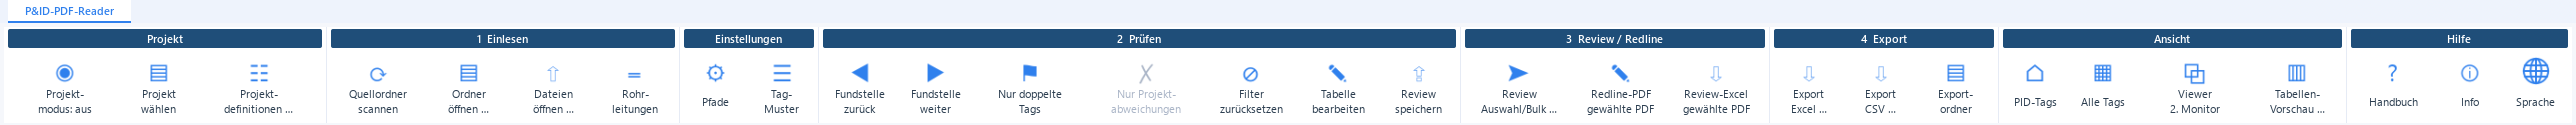
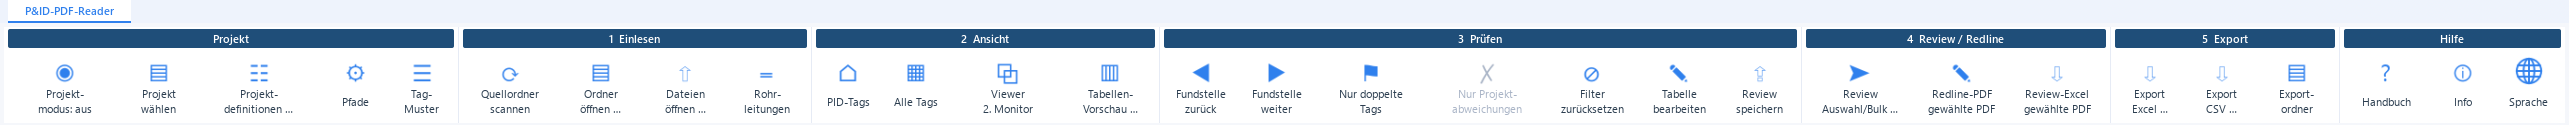
P3D PDF Reader 1.0.14: Menüband neu geordnet, Projektmodus-Symbol grün
- Einstellungen (Pfade, Tag-Muster) in die Gruppe Projekt verschoben
- Ansicht vor Prüfen, Gruppen neu nummeriert (1 Einlesen, 2 Ansicht,
  3 Prüfen, 4 Review / Redline, 5 Export), Übersetzungen EN/FR ergänzt
- Projektmodus an = grünes Symbol (Kit-Farbe ok)
- Handbuch, Hilfebilder, README und Tests angepasst

diff --git a/src/p3d_pdfreader/assets/help/handbuch.html b/src/p3d_pdfreader/assets/help/handbuch.html
@@ -87,15 +87,16 @@ details > div{padding:0 12px 8px}
 <p class="note">Klick auf einen Schritt springt zum Knopf im Menüband.</p>
 <div class="steps">
   <div class="step" data-go="scan"><b>1 · Einlesen</b><img src="img/scan.png" alt="">Quellordner scannen (<kbd>F5</kbd>) oder Ordner/Dateien öffnen.</div>
-  <div class="step" data-go="next"><b>2 · Prüfen</b><img src="img/next.png" alt="">Tag wählen, Fundstellen mit <kbd>F3</kbd> durchgehen, „Nur doppelte Tags“.</div>
-  <div class="step" data-go="redline"><b>3 · Review / Redline</b><img src="img/redline.png" alt="">Redline-PDF und Review-Excel für die gewählte PDF oder im Bulk.</div>
-  <div class="step" data-go="xlsx"><b>4 · Export</b><img src="img/xlsx.png" alt="">Alle Dateien und Tags als Excel oder CSV.</div>
+  <div class="step" data-go="sheet_tags"><b>2 · Ansicht</b><img src="img/sheet_tags.png" alt="">Blatt „PID-Tags“ oder „Alle Tags“, Viewer auf 2. Monitor.</div>
+  <div class="step" data-go="next"><b>3 · Prüfen</b><img src="img/next.png" alt="">Tag wählen, Fundstellen mit <kbd>F3</kbd> durchgehen, „Nur doppelte Tags“.</div>
+  <div class="step" data-go="redline"><b>4 · Review / Redline</b><img src="img/redline.png" alt="">Redline-PDF und Review-Excel für die gewählte PDF oder im Bulk.</div>
+  <div class="step" data-go="xlsx"><b>5 · Export</b><img src="img/xlsx.png" alt="">Alle Dateien und Tags als Excel oder CSV.</div>
 </div>
 </section>
 
 <section id="ribbon" data-title="Menüband">
 <h2>Menüband</h2>
-<p>Jede Gruppe hat eine dunkelblaue Überschrift. <b>Klick auf einen Knopf</b> zeigt darunter, was er tut. Die Einstellungen stehen direkt nach „1 Einlesen“.</p>
+<p>Jede Gruppe hat eine dunkelblaue Überschrift. <b>Klick auf einen Knopf</b> zeigt darunter, was er tut. Die Einstellungen (Pfade, Tag-Muster) stehen in der Gruppe „Projekt“. Ist der Projektmodus an, ist sein Symbol grün.</p>
 <div class="ribbon" id="rib"></div>
 <div class="detail" id="det"><div class="note">Knopf im Menüband anklicken …</div></div>
 <h3>Leisten über den Bereichen</h3>
@@ -211,7 +212,7 @@ details > div{padding:0 12px 8px}
 </tbody></table></div></details>
 <details><summary>Wo liegen meine Daten?</summary><div>
 <p>Datenordner: <code>%P3D_PDFREADER_HOME%</code>, sonst <code>&lt;Tool&gt;\data</code>, als EXE <code>%LOCALAPPDATA%\P3D_PDFREADER</code>. Darin <code>config\paths.json</code> (Quell-/Exportordner), <code>config\state.json</code>, <code>config\table_views.json</code>, <code>config\tag_patterns.json</code>, <code>logs\</code>, <code>exports\</code>.</p>
-<p>Einstellungen › <b>Pfade</b>: Quellordner hinzufügen/entfernen, Exportordner wählen. Einstellungen › <b>Tag-Muster</b>: Regex und Ausschlussliste anpassen.</p></div></details>
+<p>Projekt › <b>Pfade</b>: Quellordner hinzufügen/entfernen, Exportordner wählen. Projekt › <b>Tag-Muster</b>: Regex und Ausschlussliste anpassen.</p></div></details>
 <details><summary>Warum erscheint Equipment doppelt?</summary><div>
 <p>Equipment steht oft zusätzlich in der Equipment-Tabelle am Blattfuß und zählt dann als doppelter Tag – das kann gewollt sein.</p></div></details>
 </section>
@@ -220,18 +221,22 @@ details > div{padding:0 12px 8px}
 <script>
 const R = [
  ["Projekt", [
-  ["project_mode","Projekt-\nmodus","Schaltet die Prüfung gegen Projektdefinitionen ein oder aus. Aus = Standardmodus ohne Projektregeln. Beim Umschalten werden geladene PDFs neu eingelesen."],
+  ["project_mode","Projekt-\nmodus","Schaltet die Prüfung gegen Projektdefinitionen ein oder aus. An = Symbol grün. Aus = Standardmodus ohne Projektregeln. Beim Umschalten werden geladene PDFs neu eingelesen."],
   ["project_pick","Projekt\nwählen","Projekt anlegen, öffnen oder aus P3D Tag Compliance übernehmen (pidtag_project.db wird nur gelesen)."],
-  ["project_defs","Projekt-\ndefinitionen …","Codelisten, Listen, Tag-Strukturen, PDF-Prüfregeln bearbeiten; Excel-Export/-Import; „Tag testen“."]]],
+  ["project_defs","Projekt-\ndefinitionen …","Codelisten, Listen, Tag-Strukturen, PDF-Prüfregeln bearbeiten; Excel-Export/-Import; „Tag testen“."],
+  ["paths","Pfade","Quellordner und Exportordner verwalten, Speicherorte öffnen."],
+  ["patterns","Tag-\nMuster","Öffnet tag_patterns.json: Regex je Tag-Typ und Ausschlussliste für Kürzel."]]],
  ["1  Einlesen", [
   ["scan","Quellordner\nscannen","Liest alle PDFs der Quellordner (inkl. Unterordner) ein. Taste F5."],
   ["folder","Ordner\nöffnen …","Einen beliebigen Ordner mit PDF-Plots einlesen."],
   ["files","Dateien\nöffnen …","Einzelne PDF-Dateien wählen und einlesen."],
   ["pipes","Rohr-\nleitungen","Menü: Rohrleitungsnummern (z. B. TFHR_SS01_001_1\") mit in die Tag-Liste übernehmen. Wird gemerkt; Umschalten liest neu ein."]]],
- ["Einstellungen", [
-  ["paths","Pfade","Quellordner und Exportordner verwalten, Speicherorte öffnen."],
-  ["patterns","Tag-\nMuster","Öffnet tag_patterns.json: Regex je Tag-Typ und Ausschlussliste für Kürzel."]]],
- ["2  Prüfen", [
+ ["2  Ansicht", [
+  ["sheet_tags","PID-Tags","Wechselt zum Blatt „PID-Tags“."],
+  ["sheet_all","Alle Tags","Öffnet das Blatt mit den Tags aller PDFs."],
+  ["monitor","Viewer\n2. Monitor","PDF-Viewer in eigenem Fenster (z. B. auf dem zweiten Bildschirm). Wird gemerkt."],
+  ["preview","Tabellen-\nVorschau …","Vorschau der aktuellen Tabelle."]]],
+ ["3  Prüfen", [
   ["prev","Fundstelle\nzurück","Vorherige Fundstelle des gewählten Tags. Umschalt+F3."],
   ["next","Fundstelle\nweiter","Nächste Fundstelle des gewählten Tags; nach der letzten die Übersicht. F3."],
   ["dups","Nur doppelte\nTags","Zeigt nur Tags, die mehrfach in der PDF stehen."],
@@ -239,19 +244,14 @@ const R = [
   ["filter_reset","Filter\nzurücksetzen","Blattfilter, Spaltenfilter, Wertauswahl und „Nur …“-Schalter in allen Tabellen zurücksetzen."],
   ["edit","Tabelle\nbearbeiten","Review-Spalten der Tag-Tabelle bearbeiten (Review, Änderung, Neuer Wert, Bemerkung …)."],
   ["save","Review\nspeichern","Review-Einträge sichern. Strg+S."]]],
- ["3  Review / Redline", [
+ ["4  Review / Redline", [
   ["review","Review\nAuswahl/Bulk …","Redline-PDF, Review-Excel je PDF und gesamt für markierte oder alle PDFs erzeugen."],
   ["redline","Redline-PDF\ngewählte PDF","Kopie der gewählten PDF mit Rahmen, Pos.-Nr. und Kommentar je Fundstelle (Tabellenfilter gilt)."],
   ["review_xlsx","Review-Excel\ngewählte PDF","Excel mit einer Zeile je Fundstelle, Prüfstatus-Auswahlliste und Bemerkung."]]],
- ["4  Export", [
+ ["5  Export", [
   ["xlsx","Export\nExcel …","Dateien und Tags aller PDFs als Excel."],
   ["csv","Export\nCSV …","Tags als CSV (;) plus _Dateien.csv."],
   ["open_exports","Export-\nordner","Öffnet den Exportordner im Explorer."]]],
- ["Ansicht", [
-  ["sheet_tags","PID-Tags","Wechselt zum Blatt „PID-Tags“."],
-  ["sheet_all","Alle Tags","Öffnet das Blatt mit den Tags aller PDFs."],
-  ["monitor","Viewer\n2. Monitor","PDF-Viewer in eigenem Fenster (z. B. auf dem zweiten Bildschirm). Wird gemerkt."],
-  ["preview","Tabellen-\nVorschau …","Vorschau der aktuellen Tabelle."]]],
  ["Hilfe", [
   ["help","Handbuch","Öffnet dieses Handbuch."],
   ["about","Info","Version und Programminformationen."],

diff --git a/src/p3d_pdfreader/gui/main_window.py b/src/p3d_pdfreader/gui/main_window.py
@@ -20,7 +20,7 @@ from main_gui_kit.buttons import ButtonKind, action_button
 from main_gui_kit.preview import DataPreviewDialog
 from main_gui_kit.tables import (MultiColumnFilterProxy, TableAdminBar, TableDataModel, configure_table_view,
                                  table_zoom_slider)
-from main_gui_kit.theme import ThemeManager
+from main_gui_kit.theme import LIGHT, ThemeManager
 
 from .. import i18n, paths
 from ..constants import APP_NAME
@@ -28,7 +28,7 @@ from ..core import export, redline, review
 from ..core.extract import PdfResult
 from ..core.project_defs import CHECK_HEADERS, ProjectDB, is_fault_status
 from ..core.review_store import CHANGE_VALUES, EDIT_FIELDS, FIELDS, REVIEW_VALUES, ReviewStore, status_hits
-from . import appearance, last_paths, table_views
+from . import appearance, icons, last_paths, table_views
 from .design import NOTE_QSS
 from .paths_dialog import PathsDialog, open_in_explorer
 from . import project_dialog
@@ -585,8 +585,9 @@ class MainWindow(QMainWindow):
 
     # --- Menueband -----------------------------------------------------------------------------------------------
     def _build_ribbon(self) -> Ribbon:
-        """Menueband nach Arbeitsschritten: 1 Einlesen -> 2 Pruefen -> 3 Review/Redline -> 4 Export; dann Ansicht,
-        Hilfe. Einstellungen stehen direkt nach 1 Einlesen; jede Gruppe hat eine dunkelblaue Ueberschrift. Jede Funktion als Symbol (Glyphen-Ergaenzung in ``toolstrip``)."""
+        """Menueband: Projekt (mit den Einstellungen Pfade/Tag-Muster), dann die Arbeitsschritte 1 Einlesen -> 2 Ansicht
+        -> 3 Pruefen -> 4 Review/Redline -> 5 Export, zuletzt Hilfe (Nutzervorgabe 2026-11-21). Jede Gruppe hat eine
+        dunkelblaue Ueberschrift. Jede Funktion als Symbol (Glyphen-Ergaenzung in ``toolstrip``)."""
         r = Ribbon("P&ID-PDF-Reader")
         # Projekt: Modus ein/aus (Standard ohne Projektdefinitionen), Projekt waehlen, Verwaltung der Definitionen
         g = r.group("Projekt")
@@ -600,6 +601,9 @@ class MainWindow(QMainWindow):
         g.large("project_defs", "Projekt-\ndefinitionen …", "defs", self.edit_project_definitions)
         r.buttons["project_defs"].setToolTip("Projektdefinitionen verwalten: Codelisten, Listen, Tag-Strukturen, "
                                              "Prüfregeln, Excel, Übernahme aus Tag Compliance")
+        # Einstellungen gehoeren zur Gruppe Projekt (Nutzervorgabe 2026-11-21)
+        g.large("paths", "Pfade", "settings", self.edit_paths)
+        g.large("patterns", "Tag-\nMuster", "header", lambda: open_in_explorer(paths.patterns_file()))
         g = r.group("1  Einlesen")
         g.large("scan", "Quellordner\nscannen", "scan", lambda: self.scan(None))
         g.large("folder", "Ordner\nöffnen …", "folder", self._pick_folder)
@@ -611,11 +615,12 @@ class MainWindow(QMainWindow):
         self.pipe_action.setChecked(bool(last_paths.get_value(PIPES_KEY, False)))
         g.large("pipes", "Rohr-\nleitungen", "pipe", lambda: None, self.pipe_menu)
         r.buttons["pipes"].setToolTip(PIPES_TIP)
-        # Einstellungen direkt nach dem Einlesen (Nutzervorgabe 2026-11-21)
-        g = r.group("Einstellungen")
-        g.large("paths", "Pfade", "settings", self.edit_paths)
-        g.large("patterns", "Tag-\nMuster", "header", lambda: open_in_explorer(paths.patterns_file()))
-        g = r.group("2  Prüfen")
+        g = r.group("2  Ansicht")
+        g.large("sheet_tags", "PID-Tags", "start", lambda: self.tabs.setCurrentWidget(self.page))
+        g.large("sheet_all", "Alle Tags", "reports", self.show_all_tags)
+        g.large("monitor", "Viewer\n2. Monitor", "monitor", self.page.viewer.monitor_button.toggle)
+        g.large("preview", "Tabellen-\nVorschau …", "columns", self.show_table_preview)
+        g = r.group("3  Prüfen")
         g.large("prev", "Fundstelle\nzurück", "prev", self.page.previous_occurrence)
         g.large("next", "Fundstelle\nweiter", "next", self.page.next_occurrence)
         g.large("dups", "Nur doppelte\nTags", "duplicates", self.page.dup_button.toggle)
@@ -623,19 +628,14 @@ class MainWindow(QMainWindow):
         g.large("filter_reset", "Filter\nzurücksetzen", "filter_reset", self._clear_filters)
         g.large("edit", "Tabelle\nbearbeiten", "rename", self.page.edit_button.toggle)
         g.large("save", "Review\nspeichern", "write", self.page.save_review)
-        g = r.group("3  Review / Redline")
+        g = r.group("4  Review / Redline")
         g.large("review", "Review\nAuswahl/Bulk …", "review", self.review)
         g.large("redline", "Redline-PDF\ngewählte PDF", "redline", self.redline_current)
         g.large("review_xlsx", "Review-Excel\ngewählte PDF", "excel_out", self.review_excel_current)
-        g = r.group("4  Export")
+        g = r.group("5  Export")
         g.large("xlsx", "Export\nExcel …", "excel_out", lambda: self.export("xlsx"))
         g.large("csv", "Export\nCSV …", "csv_out", lambda: self.export("csv"))
         g.large("open_exports", "Export-\nordner", "folder", lambda: open_in_explorer(paths.exports_dir()))
-        g = r.group("Ansicht")
-        g.large("sheet_tags", "PID-Tags", "start", lambda: self.tabs.setCurrentWidget(self.page))
-        g.large("sheet_all", "Alle Tags", "reports", self.show_all_tags)
-        g.large("monitor", "Viewer\n2. Monitor", "monitor", self.page.viewer.monitor_button.toggle)
-        g.large("preview", "Tabellen-\nVorschau …", "columns", self.show_table_preview)
         g = r.group("Hilfe")
         g.large("help", "Handbuch", "help", self.show_help)
         g.large("about", "Info", "info", self.show_about)
@@ -1027,6 +1027,9 @@ class MainWindow(QMainWindow):
         self.checker = self.project.checker() if on else None
         self.ribbon.buttons["project_mode"].setChecked(on)
         self.ribbon.set_text("project_mode", "Projekt-\nmodus: an" if on else "Projekt-\nmodus: aus")
+        # Symbol gruen, solange der Projektmodus an ist (Kit-Farbe ``ok``, Nutzervorgabe 2026-11-21)
+        self.ribbon.buttons["project_mode"].setIcon(icons.glyph_icon("project_mode", LIGHT.ok, 32) if on
+                                                    else icons.ribbon_icon("project_mode", 32))
         self.ribbon.set_enabled("deviations", on)
         self.page.fault_button.setEnabled(on)
         if not on:

diff --git a/tests/test_project_defs.py b/tests/test_project_defs.py
@@ -186,6 +186,21 @@ def _equipment_pdf(path: Path) -> Path:
     return path
 
 
+def _icon_green(button) -> bool:
+    """Hat das Symbol des Knopfs ueberwiegend gruene Pixel (Projektmodus an)?"""
+    image = button.icon().pixmap(32, 32).toImage()
+    green = other = 0
+    for x in range(image.width()):
+        for y in range(image.height()):
+            c = image.pixelColor(x, y)
+            if c.alpha() > 128:
+                if c.green() > c.red() + 40 and c.green() > c.blue() + 20:
+                    green += 1
+                else:
+                    other += 1
+    return green > other
+
+
 def test_gui_project_mode_toggle(tmp_path, monkeypatch):
     """Menueband: Projektmodus an -> Pruefspalten sichtbar, Abweichung rot; aus -> Standard wie bisher; gemerkt."""
     from PySide6.QtWidgets import QApplication
@@ -239,13 +254,15 @@ def test_gui_project_mode_toggle(tmp_path, monkeypatch):
     w.page.fault_button.setChecked(False)
     w.page._only_duplicates()
     assert {r[1]: r[CHECK_COL] for r in w.page.tags.rows()}["111XYZ01"] == OK
+    assert _icon_green(w.ribbon.buttons["project_mode"])                         # Symbol gruen, solange an
     w.ribbon.buttons["project_mode"].click()                                     # aus
     wait()
     assert w.checker is None and w.page.tags.table.isColumnHidden(CHECK_COL)
     assert "VHXXX" not in {r[1] for r in w.page.tags.rows()}
+    assert not _icon_green(w.ribbon.buttons["project_mode"])
     w.ribbon.buttons["project_mode"].click()                                     # wieder an (Projekt ist gemerkt)
     wait()
-    assert w.checker is not None
+    assert w.checker is not None and _icon_green(w.ribbon.buttons["project_mode"])
     w.close()
     w2 = MainWindow(app, "test")
     assert w2.checker is not None and w2.project.name == "P1"                    # Modus und Projekt gemerkt

diff --git a/tests/test_ribbon_menus.py b/tests/test_ribbon_menus.py
@@ -36,8 +36,11 @@ def _group_titles(ribbon) -> list[str]:
 def test_group_heads_on_top_and_settings_after_einlesen(window):
     groups = _group_titles(window.ribbon)
     titles = [g.title.text() for g in groups]
-    assert titles.index("Einstellungen") == titles.index("1  Einlesen") + 1
-    assert titles.index("2  Prüfen") == titles.index("Einstellungen") + 1
+    # Nutzervorgabe 2026-11-21: Einstellungen in der Gruppe Projekt, Ansicht vor Pruefen, neu nummeriert
+    assert titles == ["Projekt", "1  Einlesen", "2  Ansicht", "3  Prüfen", "4  Review / Redline", "5  Export", "Hilfe"]
+    project = groups[0]
+    keys = [k for k, b in window.ribbon.buttons.items() if project.isAncestorOf(b)]
+    assert keys == ["project_mode", "project_pick", "project_defs", "paths", "patterns"]
     for group in groups:
         assert group.layout().indexOf(group.title) == 0
         assert group.title.objectName() == "RibbonGroupHead"

diff --git a/tools/make_i18n_catalog.py b/tools/make_i18n_catalog.py
@@ -14,6 +14,8 @@ a("Menüband", [
     ("P&ID-PDF-Reader", "P&ID PDF Reader", "Lecteur PDF P&ID"),
     ("1  Einlesen", "1  Import", "1  Importer"), ("2  Prüfen", "2  Check", "2  Contrôler"),
     ("3  Review / Redline", "3  Review / Redline", "3  Revue / Redline"), ("4  Export", "4  Export", "4  Export"),
+    ("2  Ansicht", "2  View", "2  Affichage"), ("3  Prüfen", "3  Check", "3  Contrôler"),
+    ("4  Review / Redline", "4  Review / Redline", "4  Revue / Redline"), ("5  Export", "5  Export", "5  Export"),
     ("Ansicht", "View", "Affichage"), ("Einstellungen", "Settings", "Paramètres"), ("Hilfe", "Help", "Aide"),
     ("Quellordner\nscannen", "Scan source\nfolders", "Analyser les\ndossiers source"),
     ("Quellordner scannen", "Scan source folders", "Analyser les dossiers source"),

diff --git a/README.md b/README.md
@@ -23,7 +23,7 @@ Ein PC oder Server startet den Web-Server, Kollegen öffnen die Adresse im Brows
   - Alternativ `start_web_server.bat` (ohne Argumente im Netzwerk erreichbar, Port 8765) oder `python -m p3d_pdfreader.web --host 0.0.0.0 --port 8765 [--source "\\server\freigabe\PID Plots"]`.
   - Beim ersten Start fragt Windows eventuell nach einer Firewall-Freigabe für Python.
 - **PDFs einlesen:**
-  - „Quellordner scannen“ (F5) liest die Quellordner des **Server-PCs**: `config\paths.json`, im Desktop-Tool unter Einstellungen › Pfade, plus `--source`. UNC-Freigaben sind möglich.
+  - „Quellordner scannen“ (F5) liest die Quellordner des **Server-PCs**: `config\paths.json`, im Desktop-Tool unter Projekt › Pfade, plus `--source`. UNC-Freigaben sind möglich.
   - „PDFs hochladen“ oder PDFs ins Browserfenster ziehen liest Dateien vom PC des Kollegen.
   - „Rohrleitungen“ schaltet das Einlesen der Rohrleitungsnummern ein.
 - **Funktionen wie in der Desktop-App:**
@@ -48,13 +48,12 @@ Ein PC oder Server startet den Web-Server, Kollegen öffnen die Adresse im Brows
 ## Arbeitsablauf (Menüband)
 | Gruppe | Funktionen |
 |---|---|
-| **Projekt** | Projektmodus an/aus, Projekt wählen (aus Tag Compliance übernehmen, öffnen, neu), Projektdefinitionen … |
+| **Projekt** | Projektmodus an/aus (an = Symbol grün), Projekt wählen (aus Tag Compliance übernehmen, öffnen, neu), Projektdefinitionen …, Einstellungen: Pfade, Tag-Muster |
 | **1 Einlesen** | Quellordner scannen (F5), Ordner öffnen, Dateien öffnen |
-| **Einstellungen** | Pfade, Tag-Muster |
-| **2 Prüfen** | Fundstelle zurück / weiter (Umschalt+F3 / F3), Nur doppelte Tags, Filter zurücksetzen |
-| **3 Review / Redline** | Review Auswahl/Bulk, Redline-PDF der gewählten PDF, Review-Excel der gewählten PDF |
-| **4 Export** | Export Excel, Export CSV, Exportordner öffnen |
-| **Ansicht** | Blätter „PID-Tags“ und „Alle Tags“, Viewer auf 2. Monitor, Tabellen-Vorschau |
+| **2 Ansicht** | Blätter „PID-Tags“ und „Alle Tags“, Viewer auf 2. Monitor, Tabellen-Vorschau |
+| **3 Prüfen** | Fundstelle zurück / weiter (Umschalt+F3 / F3), Nur doppelte Tags, Filter zurücksetzen |
+| **4 Review / Redline** | Review Auswahl/Bulk, Redline-PDF der gewählten PDF, Review-Excel der gewählten PDF |
+| **5 Export** | Export Excel, Export CSV, Exportordner öffnen |
 | **Hilfe** | Handbuch (interaktive HTML-Datei `assets\help\handbuch.html`), Info, **Sprache** (Deutsch / English / Français, wirkt sofort, wird gemerkt) |
 
 Jede Gruppe hat oben eine dunkelblaue Überschrift. Die direkten Funktionen sitzen zusätzlich als Tab-Buttons in Leisten über den Bereichen:
@@ -123,7 +122,7 @@ Die Ansicht jeder Tabelle wird automatisch gemerkt. Benannte Ansichten verwaltes
 | Rohrleitung (optional: Menüband › Rohrleitungen) | Regex `pipe_line` (`TFHR_SS01_001_1"`, `PFC_ST10_015_1/2"`), waagerecht und senkrecht; getrennte Teile (`… 1/2"`, `_205_1`) werden zusammengesetzt |
 | Gedrehte Plots | Wortpositionen werden in die sichtbare Lage umgerechnet (/Rotate 90/180/270) |
 
-Die Muster stehen in `data\config\tag_patterns.json` und werden beim ersten Start angelegt. Unter **Einstellungen › Tag-Muster** lassen sich Regex und Ausschlussliste für Kürzel anpassen, z. B. `MIN`, `HALF`, `SHORT`.
+Die Muster stehen in `data\config\tag_patterns.json` und werden beim ersten Start angelegt. Unter **Projekt › Tag-Muster** lassen sich Regex und Ausschlussliste für Kürzel anpassen, z. B. `MIN`, `HALF`, `SHORT`.
 
 Hinweis: Equipment steht oft zusätzlich in der Equipment-Tabelle am Blattfuß. Es erscheint dann als doppelter Tag, was gewollt sein kann.
 
@@ -134,7 +133,7 @@ Hinweis: Equipment steht oft zusätzlich in der Equipment-Tabelle am Blattfuß. 
   - `config\table_views.json`: gemerkte Tabellenansichten
   - `config\tag_patterns.json`
   - `logs\`, `exports\`
-- **Pfade-Dialog** (**Einstellungen › Pfade**): Quellordner hinzufügen oder entfernen (✓/✗ = vorhanden), Exportordner wählen, Speicherorte öffnen.
+- **Pfade-Dialog** (**Projekt › Pfade**): Quellordner hinzufügen oder entfernen (✓/✗ = vorhanden), Exportordner wählen, Speicherorte öffnen.
 - Pfade werden über `resolve()` normalisiert, das Subst-Laufwerk A: wird dabei zu C:. Es gibt keine festen Laufwerksbuchstaben.
 
 ## Aufbau

diff --git a/CHANGELOG.md b/CHANGELOG.md
@@ -1,5 +1,11 @@
 # Changelog
 
+## 1.0.14 – 2026-11-21
+- **Menüband neu geordnet:** Projekt (jetzt mit den Einstellungen Pfade und Tag-Muster) → 1 Einlesen → **2 Ansicht** → 3 Prüfen → 4 Review / Redline → 5 Export → Hilfe. Die eigene Gruppe „Einstellungen“ entfällt; „Ansicht“ steht vor „Prüfen“, die Gruppen sind neu nummeriert (Übersetzungen EN/FR ergänzt).
+- **Projektmodus an = grünes Symbol** (Kit-Farbe `ok`); aus = Standardsymbol.
+- Handbuch (Menüband-Nachbau, Schnellstart, Hilfebilder neu erzeugt) und README angepasst.
+- Tests: Gruppenreihenfolge, Knöpfe der Gruppe Projekt, Symbolfarbe beim Umschalten.
+
 ## 1.0.13 – 2026-11-21
 - **Projektdefinitionen wie in P3D Tag Compliance** (Vorlage: Fenster „Project definitions“, `pidtag_gui.py` + `linetag_defs_tiles.py`; neues Modul `gui\project_tiles.py`):
   - **Rechtsklick in eine Zelle:** Zeile hinzufügen, Zeile(n) duplizieren/löschen, Nach Code A–Z sortieren, Kopieren, Einfügen, Inhalt löschen, Nur Zeilen mit „Wert“ zeigen, Filter zurücksetzen, Kachel-Editor ein/aus, Ansicht nach Excel …, Rückgängig/Wiederholen.
